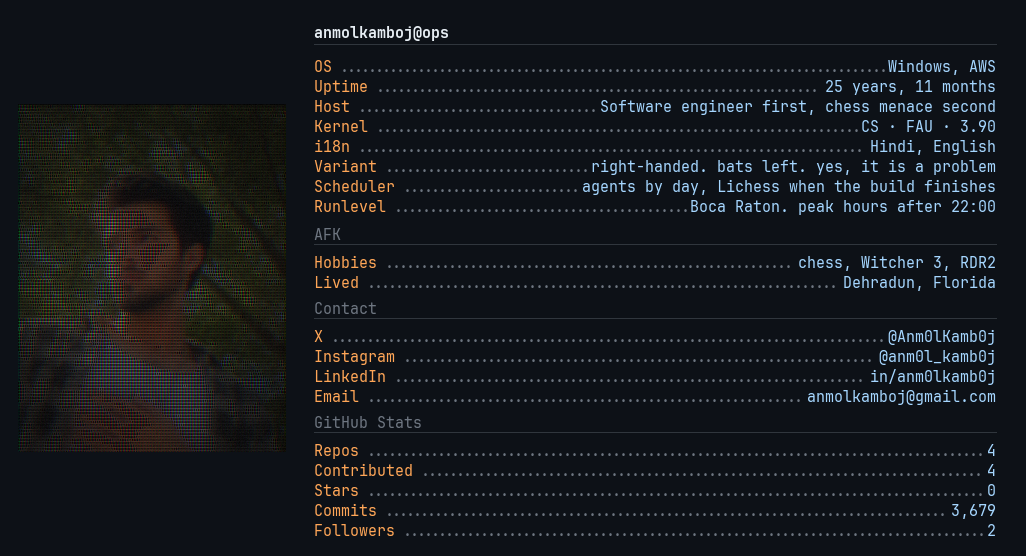
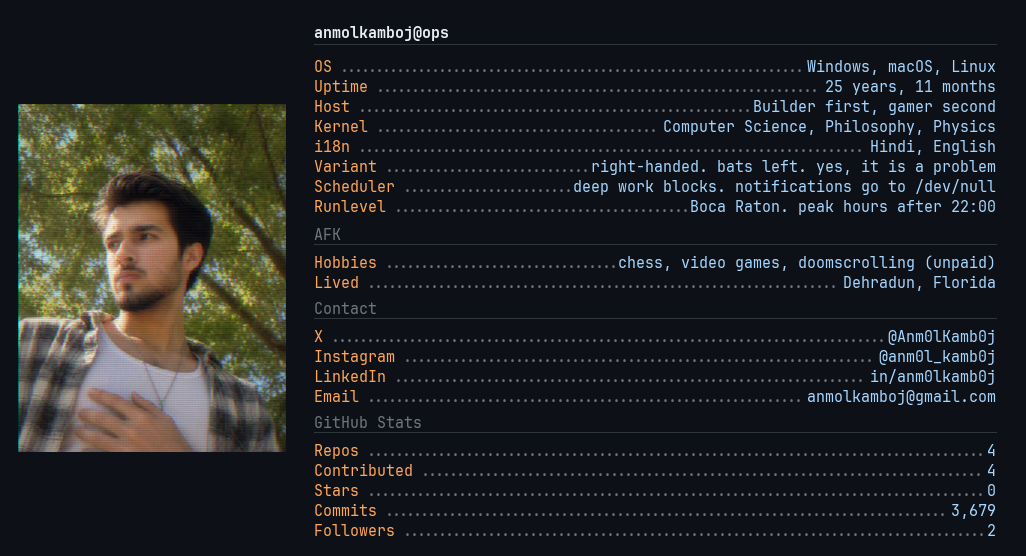
Tune the header card, balance the ASCII portrait, and keep chess.com inside the board panel.

diff --git a/scripts/build_chess.py b/scripts/build_chess.py
@@ -164,18 +164,45 @@ def paste_piece(canvas: Image.Image, sprites: dict[str, Image.Image], kind: str,
     canvas.alpha_composite(sprite, (int(cx - sprite.size[0] / 2), int(cy - sprite.size[1] / 2)))
 
 
+def wrap_text(draw, text, font, max_width):
+    words = text.split()
+    lines = []
+    line = ""
+    for word in words:
+        trial = (line + " " + word).strip()
+        if line and draw.textlength(trial, font=font) > max_width:
+            lines.append(line)
+            line = word
+        else:
+            line = trial
+    if line:
+        lines.append(line)
+    return lines
+
+
 def render(board, sprites, moving, t, last, caption, mate) -> Image.Image:
-    cell = 46
-    origin = 24
+    cell = 44
+    gutter = 26
+    board_x = 36 + gutter
+    board_y = 56
     board_px = cell * 8
-    W, H = 760, 460
+    W, H = 800, 510
     img = Image.new("RGBA", (W, H), BOARD_BG + (255,))
     d = ImageDraw.Draw(img)
-    regular = ImageFont.truetype(str(FONTS / "JetBrainsMono-Regular.ttf"), 15)
-    bold = ImageFont.truetype(str(FONTS / "JetBrainsMono-Bold.ttf"), 18)
+    regular = ImageFont.truetype(str(FONTS / "JetBrainsMono-Regular.ttf"), 14)
+    bold = ImageFont.truetype(str(FONTS / "JetBrainsMono-Bold.ttf"), 16)
     small = ImageFont.truetype(str(FONTS / "JetBrainsMono-Regular.ttf"), 12)
 
-    d.text((28, 12), "I actually play this game. Morphy just plays it better.", font=bold, fill=TEXT)
+    d.text((28, 16), "I actually play this game. Morphy just plays it better.", font=bold, fill=TEXT)
+
+    # Board well: coordinates sit in the gutters, clear of the rounded corners.
+    well = [
+        24,
+        48,
+        board_x + board_px + 10,
+        board_y + board_px + gutter + 4,
+    ]
+    d.rounded_rectangle(well, radius=10, fill=PANEL_BG)
 
     last_cells = set()
     if last:
@@ -184,16 +211,19 @@ def render(board, sprites, moving, t, last, caption, mate) -> Image.Image:
 
     for r in range(8):
         for c in range(8):
-            x0 = origin + c * cell
-            y0 = 40 + r * cell
+            x0 = board_x + c * cell
+            y0 = board_y + r * cell
             fill = DARK if (c + r) % 2 else LIGHT
             if (c, r) in last_cells:
                 fill = HIGHLIGHT
             d.rectangle([x0, y0, x0 + cell, y0 + cell], fill=fill)
 
     for i in range(8):
-        d.text((origin + i * cell + 22, 40 + board_px + 4), "abcdefgh"[i], font=small, fill=MUTED)
-        d.text((10, 40 + i * cell + 20), str(8 - i), font=small, fill=MUTED)
+        file_w = d.textlength("abcdefgh"[i], font=small)
+        d.text((board_x + i * cell + (cell - file_w) / 2, board_y + board_px + 6), "abcdefgh"[i], font=small, fill=MUTED)
+        rank = str(8 - i)
+        rank_w = d.textlength(rank, font=small)
+        d.text((board_x - 8 - rank_w, board_y + i * cell + (cell - 12) / 2), rank, font=small, fill=MUTED)
 
     moving_from = sq(moving[1]) if moving else None
 
@@ -204,8 +234,8 @@ def render(board, sprites, moving, t, last, caption, mate) -> Image.Image:
                 continue
             if moving and (c, r) == moving_from:
                 continue
-            cx = origin + c * cell + cell / 2
-            cy = 40 + r * cell + cell / 2
+            cx = board_x + c * cell + cell / 2
+            cy = board_y + r * cell + cell / 2
             paste_piece(img, sprites, kind, cx, cy)
 
     if moving:
@@ -213,49 +243,45 @@ def render(board, sprites, moving, t, last, caption, mate) -> Image.Image:
         c0, r0 = sq(src)
         c1, r1 = sq(dst)
         e = ease(t)
-        x0 = origin + c0 * cell + cell / 2
-        y0 = 40 + r0 * cell + cell / 2
-        x1 = origin + c1 * cell + cell / 2
-        y1 = 40 + r1 * cell + cell / 2
+        x0 = board_x + c0 * cell + cell / 2
+        y0 = board_y + r0 * cell + cell / 2
+        x1 = board_x + c1 * cell + cell / 2
+        y1 = board_y + r1 * cell + cell / 2
         paste_piece(img, sprites, kind, x0 + (x1 - x0) * e, y0 + (y1 - y0) * e)
 
-    panel = [440, 36, 740, 440]
+    panel = [well[2] + 16, 48, W - 24, H - 24]
     d.rounded_rectangle(panel, radius=10, fill=PANEL_BG)
-    d.text((456, 50), "WHY THIS IS HERE", font=small, fill=ACCENT)
-    blurb = [
-        "I play chess a lot. Blitz, rapid,",
-        "sometimes a slow game I abandon",
-        "when dinner happens.",
-        "",
-        "This is the Opera Game. Morphy",
-        "gives a queen and still mates.",
-        "I give a queen and open Lichess",
-        "analysis so I can feel seen.",
-        "",
-        "Theatre kid who likes a good",
-        "finish. Also a person who has",
-        "premoved into mate more than once.",
-    ]
-    y = 72
-    for line in blurb:
-        d.text((456, y), line, font=regular, fill=TEXT if line else MUTED)
-        y += 16
+    inner_x = panel[0] + 20
+    inner_right = panel[2] - 20
+    max_w = inner_right - inner_x
 
-    wrapped = []
-    words = caption.split()
-    line = ""
-    for word in words:
-        trial = (line + " " + word).strip()
-        if len(trial) > 34:
-            wrapped.append(line)
-            line = word
-        else:
-            line = trial
-    if line:
-        wrapped.append(line)
-    d.multiline_text((456, 318), "\n".join(wrapped), font=regular, fill=ACCENT if not mate else (230, 80, 80), spacing=4)
+    d.text((inner_x, panel[1] + 16), "WHY THIS IS HERE", font=small, fill=ACCENT)
+    blurb = (
+        "I play chess a lot. Blitz, rapid, "
+        "sometimes a slow game I abandon when dinner happens.\n\n"
+        "This is the Opera Game. Morphy gives a queen and still mates. "
+        "I give a queen and open chess.com analysis so I can feel seen.\n\n"
+        "Also a person who has premoved into mate more than once."
+    )
+    y = panel[1] + 40
+    for para in blurb.split("\n"):
+        if not para:
+            y += 10
+            continue
+        for line in wrap_text(d, para, regular, max_w):
+            d.text((inner_x, y), line, font=regular, fill=TEXT)
+            y += 18
+
+    caption_lines = wrap_text(d, caption, regular, max_w)
     if mate:
-        d.text((456, 410), "CHECKMATE. I would have resigned on move 12.", font=small, fill=(230, 80, 80))
+        caption_lines.append("CHECKMATE. I would have resigned on move 12.")
+    caption_h = len(caption_lines) * 18
+    cy = panel[3] - 22 - caption_h
+    if cy < y + 16:
+        cy = y + 16
+    for line in caption_lines:
+        d.text((inner_x, cy), line, font=regular, fill=ACCENT if not mate else (230, 80, 80))
+        cy += 18
 
     return img.convert("RGB")
 

diff --git a/scripts/build_header.py b/scripts/build_header.py
@@ -29,21 +29,21 @@ STATS_PATH = ASSETS / "stats.json"
 # --- 21st.dev recipe (do not "improve" these) ---
 CELL = 3
 CHARSET = "01"
-BG_BLUR = 12
+BG_BLUR = 3
 BG_OPACITY = 1.0
 TINT = (0, 0, 0)
-TINT_OPACITY = 0.50
-BRIGHTNESS = -100
-CONTRAST = -100
+TINT_OPACITY = 0.08
+BRIGHTNESS = 0
+CONTRAST = 12
 SATURATION = 100
 GRAYSCALE = 0
 PFX = {
-    "vignette": 0.59,
-    "scanLines": 0.28,
-    "chromatic": 0.40,
-    "bloom": 0.60,
-    "filmGrain": 0.40,
-    "glitch": 0.20,
+    "vignette": 0.22,
+    "scanLines": 0.14,
+    "chromatic": 0.16,
+    "bloom": 0.12,
+    "filmGrain": 0.18,
+    "glitch": 0.08,
 }
 
 # Compact header. Portrait is a side panel, not a full-page cover.
@@ -173,7 +173,10 @@ def prepare_photo() -> Image.Image:
     left = max(0, (w - side) // 2 + int(w * 0.02))
     top = int(h * 0.02)
     photo = photo.crop((left, top, min(w, left + side), min(h, top + int(side * 1.28))))
-    return photo.resize((PORTRAIT_W, PORTRAIT_H), Image.Resampling.LANCZOS)
+    photo = photo.resize((PORTRAIT_W, PORTRAIT_H), Image.Resampling.LANCZOS)
+    photo = ImageEnhance.Contrast(photo).enhance(1.08)
+    photo = ImageEnhance.Sharpness(photo).enhance(1.25)
+    return photo
 
 
 def render_ascii(photo: Image.Image, rng: random.Random) -> Image.Image:
@@ -181,7 +184,8 @@ def render_ascii(photo: Image.Image, rng: random.Random) -> Image.Image:
     #    Brightness/contrast -100 would wipe glyphs if applied after draw,
     #    so they hit the photo layer only. That is how the 21st.dev look
     #    keeps a black field with colored 01 on top.
-    bg = photo.filter(ImageFilter.GaussianBlur(BG_BLUR))
+    # Keep the photo itself, with a light blur so 01 sit on real detail, not mush.
+    bg = Image.blend(photo, photo.filter(ImageFilter.GaussianBlur(BG_BLUR)), 0.28)
     if BG_OPACITY < 1:
         empty = Image.new("RGB", photo.size, (0, 0, 0))
         bg = Image.blend(empty, bg, BG_OPACITY)
@@ -202,7 +206,12 @@ def render_ascii(photo: Image.Image, rng: random.Random) -> Image.Image:
             # animStyle flicker, animIntensity 0: almost still, a few cells flip
             if rng.random() < 0.012:
                 ch = "1" if ch == "0" else "0"
-            draw.text((x, y - 1), ch, font=font, fill=color)
+            glyph = (
+                min(255, int(color[0] * 1.06 + 6)),
+                min(255, int(color[1] * 1.05 + 4)),
+                min(255, int(color[2] * 1.04 + 2)),
+            )
+            draw.text((x, y - 1), ch, font=font, fill=glyph)
 
     img = chromatic(canvas, PFX["chromatic"])
     img = bloom(img, PFX["bloom"])
@@ -243,13 +252,13 @@ def render_card() -> Image.Image:
     d.line([(x, 26), (x + width, 26)], fill=RULE, width=1)
 
     rows = [
-        ("OS", "Windows, AWS"),
+        ("OS", "Windows, macOS, Linux"),
         ("Uptime", age_label()),
-        ("Host", "Software engineer first, chess menace second"),
-        ("Kernel", "CS · FAU · 3.90"),
+        ("Host", "Builder first, gamer second"),
+        ("Kernel", "Computer Science, Philosophy, Physics"),
         ("i18n", "Hindi, English"),
         ("Variant", "right-handed. bats left. yes, it is a problem"),
-        ("Scheduler", "agents by day, Lichess when the build finishes"),
+        ("Scheduler", "deep work blocks. notifications go to /dev/null"),
         ("Runlevel", "Boca Raton. peak hours after 22:00"),
     ]
     y = 38
@@ -260,7 +269,7 @@ def render_card() -> Image.Image:
     y += 8
     section(d, regular, x, y, width, "AFK")
     y += 28
-    dotted_row(d, regular, x, y, "Hobbies", "chess, Witcher 3, RDR2", width)
+    dotted_row(d, regular, x, y, "Hobbies", "chess, video games, doomscrolling (unpaid)", width)
     y += 20
     dotted_row(d, regular, x, y, "Lived", "Dehradun, Florida", width)
 

diff --git a/README.md b/README.md
@@ -8,6 +8,9 @@ Software engineer in Boca Raton. I work on agentic security systems and the clou
 
 Dehradun to Florida. MS in Computer Science at FAU. I take a multi-step job, keep the context, and leave a trail you can inspect when something breaks.
 
+> [!WARNING]
+> I build applications. If this page starts talking about what happens after the click, that is not a slogan. That is the job.
+
 ## Work
 
 - [**Penti.AI**](https://portfolio-nine-lovat-52.vercel.app/) (Jun 2025 to present). Agentic AI and full stack. Recon, scanning with context, validation before anyone calls it a win, reports people can use. Python, Tailwind, AWS.
@@ -38,13 +41,13 @@ My contribution graph, except a ship is allowed to shoot it. The squares are rea
 
 ## Chess
 
-I put a board here because I play. Blitz, rapid, the occasional slow game I abandon when dinner happens. The clip is Morphy's Opera Game. He gives a queen and still mates. I give a queen and open the analysis board.
+I put a board here because I play. Blitz, rapid, the occasional slow game I abandon when dinner happens. The clip is Morphy's Opera Game. He gives a queen and still mates. I give a queen and open chess.com analysis.
 
 <p align="center">
   <img src="assets/chess.gif" alt="Animated Opera Game on a real chessboard" width="72%" />
 </p>
 
-If you want a game, send a Lichess challenge. I will accept, play too fast, and blame the clock.
+If you want a game, send a chess.com challenge. I will accept, play too fast, and blame the clock.
 
 ## Connect
 
